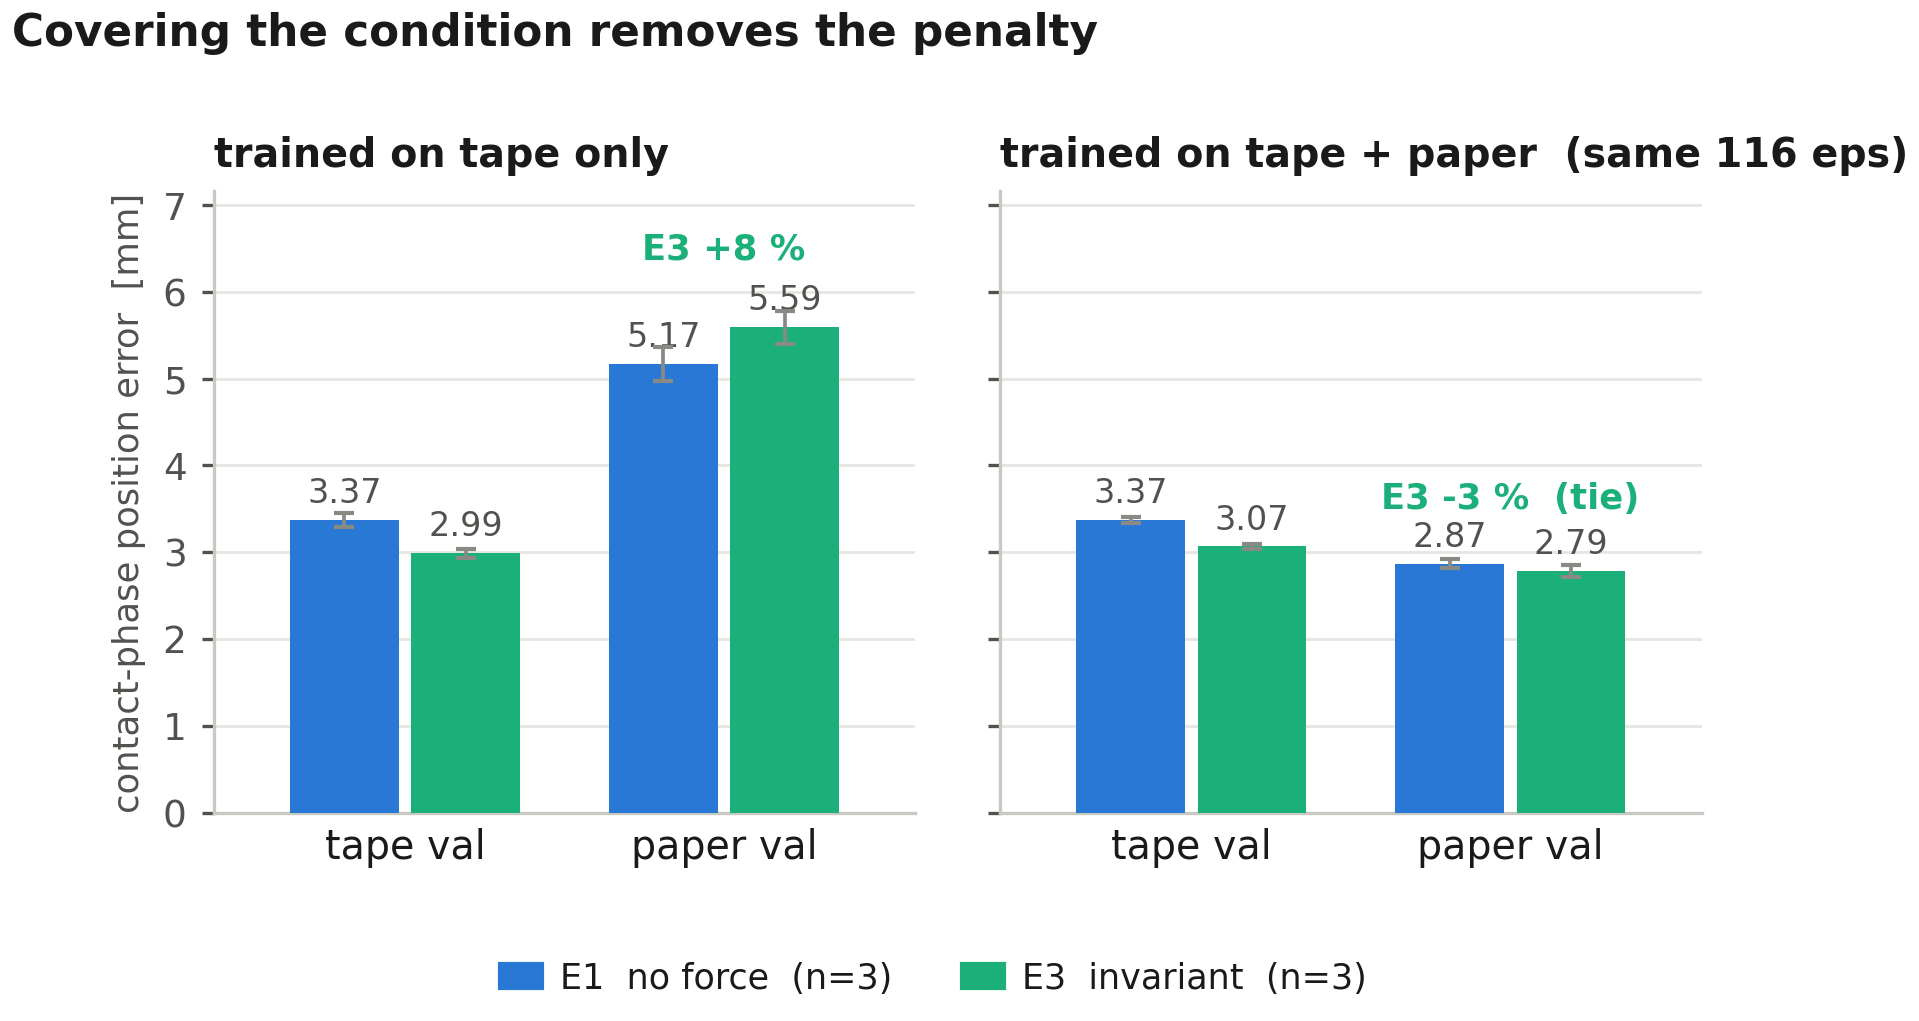
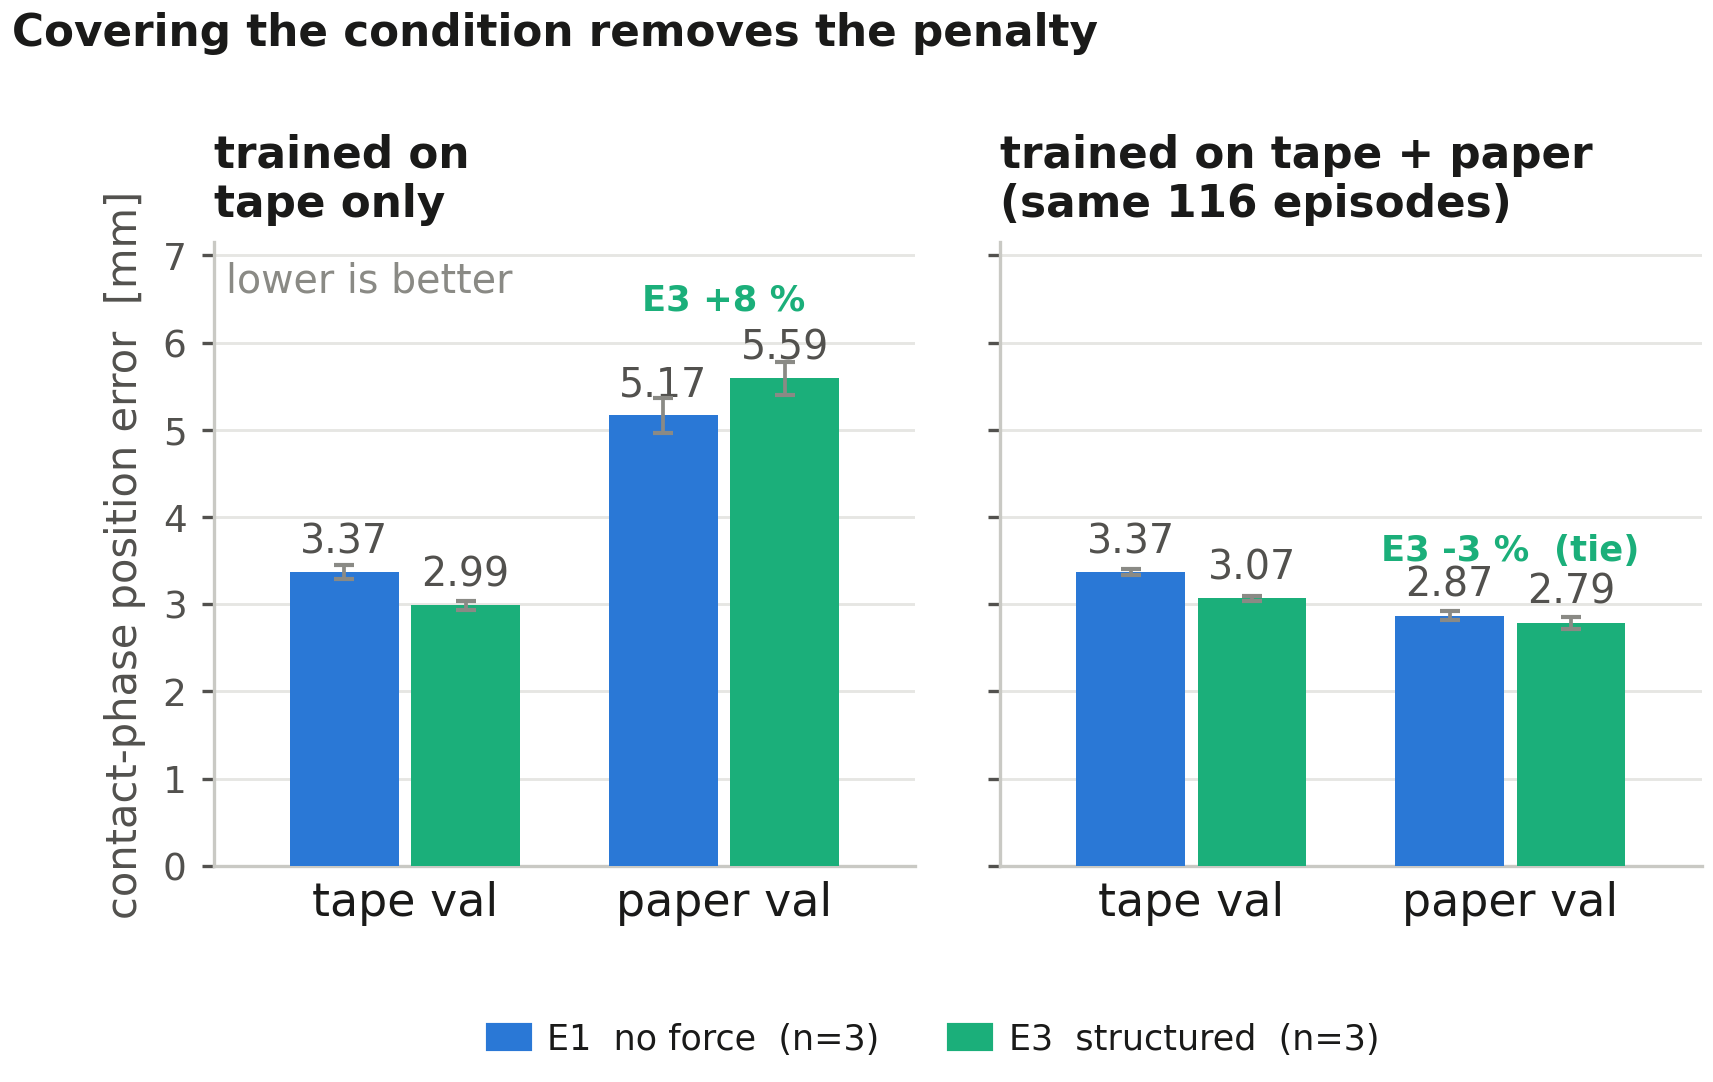
사이트: 요약 문구 정정(67 %, 중력 보상+|F|), 그림 배경 흰색, 하드웨어 타일 비율 통일, 결과 그림 최신판

diff --git a/index.html b/index.html
@@ -24,7 +24,7 @@ h1{font-size:clamp(22px,4.2vw,36px);line-height:1.25;margin:0 auto 16px;font-wei
 h2{font-size:22px;margin:0 0 14px;font-weight:700;text-align:center}
 p{margin:0 0 12px;color:var(--ink2)} .abstract p{max-width:66ch;margin:0 auto 12px;text-align:left}
 .claim{max-width:66ch;margin:16px auto 0;border-left:3px solid var(--e3);padding:10px 14px;background:var(--e3soft);border-radius:0 8px 8px 0;color:var(--ink);font-weight:500;text-align:left}
-figure{margin:0} img,video{max-width:100%;display:block;border-radius:12px;background:#000}
+figure{margin:0} img,video{max-width:100%;display:block;border-radius:12px} video{background:#000} img.fig{background:#fff;padding:10px;box-sizing:border-box}
 .pair{display:grid;grid-template-columns:1fr 1fr;gap:16px;max-width:760px;margin:0 auto}
 .pair video{width:100%;height:min(72vh,600px);object-fit:contain;background:#000}
 .pair figcaption{text-align:left}
@@ -39,7 +39,7 @@ figcaption{font-size:14px;color:var(--mute);margin-top:10px;line-height:1.55;tex
 .robot>img{width:270px;max-width:100%;border-radius:10px;display:block;flex:0 0 auto}
 .robot>div{flex:1 1 260px;min-width:0}
 .soon{aspect-ratio:16/10;border-radius:10px;background:var(--chip);display:grid;place-items:center;color:var(--mute);font-size:14px;text-align:center;padding:12px}
-.two{display:grid;grid-template-columns:1fr 1fr;gap:14px;align-items:start;max-width:720px;margin:0 auto}
+.two{display:grid;grid-template-columns:1fr 1fr;gap:14px;align-items:start;max-width:720px;margin:0 auto}.two img{width:100%;object-fit:cover}.two figure:nth-child(-n+2) img{aspect-ratio:4/5}.two figure:nth-child(n+3) img{aspect-ratio:5/4}
 .k{font-variant-numeric:tabular-nums;font-weight:600;color:var(--ink)}
 pre{background:var(--card);border:1px solid var(--rule);border-radius:12px;padding:14px 16px;font-size:13px;line-height:1.5;overflow-x:auto;color:var(--ink2);max-width:720px;margin:0 auto}
 footer{border-top:1px solid var(--rule);padding-top:18px;font-size:13.5px;color:var(--mute);text-align:center;line-height:1.7}
@@ -81,14 +81,14 @@ footer{border-top:1px solid var(--rule);padding-top:18px;font-size:13.5px;color:
 <section class="abstract">
   <h2>요약</h2>
   <p>Diffusion Policy는 영상과 손목 자세만으로 시연을 모방하지만, 경사면을 눌러 따라가는 접촉 과제의 결과를 지배하는 마찰과 법선력은 영상에 나타나지 않습니다. 표준 UMI 그리퍼에 6축 힘/토크 센서를 통합해 시연을 모으고, 그 힘을 정책 입력으로 <em>어떤 형태로</em> 넣어야 하는지를 데이터·모델·시드를 고정한 통제 비교(힘 없음 / 원시 렌치 / 물리 구조화, 시드 3개)로 측정했습니다. 학습한 표면과 마찰이 33 % 다른 표면에서 함께 평가하고, 두 표면을 섞어 학습한 경우도 비교했습니다.</p>
-  <div class="claim">힘 표현의 우열은 학습 데이터가 배치 조건을 덮는지에 따라 부호가 바뀝니다. 원시 렌치는 어느 조건에서도 이득이 없고(그러나 힘을 지우면 오차가 87 % 늘어 — 쓰이되 도움이 되지 않음), 물리적으로 구조화한 표현은 덮은 조건에서 9–11 % 이득, 덮지 못한 조건에서는 힘을 안 쓰는 것보다 나쁩니다. 이득은 중력 보상만으로 포화됩니다.</div>
+  <div class="claim">힘 표현의 우열은 학습 데이터가 배치 조건을 덮는지에 따라 부호가 바뀝니다. 원시 렌치는 S1에서 개선이 없고 S2에서는 오차가 5 % 늘었지만 힘을 지우면 오차가 67 % 늘어납니다 — 쓰이되 도움이 되지 않습니다. 물리적으로 구조화한 표현은 학습한 표면에서 9–11 % 이득, 처음 보는 표면에서는 힘을 안 쓰는 것보다 나쁘고, 그 표면을 학습에 넣으면 손해가 사라집니다. 이득에는 중력 보상과 힘 크기 |F| 둘 다 필요했고, 그 뒤로 채널을 더해도 늘지 않았습니다.</div>
 </section>
 
 <section>
   <h2>하드웨어와 실험 환경</h2>
   <div class="two">
     <figure><img src="media/rig.jpg" alt="F/T 센서를 통합한 손잡이형 UMI 그리퍼"><figcaption>제작한 수집 장치 — 아이폰, 6축 F/T, 모터. 로봇 플랜지에 그대로 올라갑니다.</figcaption></figure>
-    <figure><img src="media/tool.jpg" alt="그리퍼가 파지하는 3D 프린트 슬라이더 바"><figcaption>접촉 툴 — 그리퍼가 손잡이를 물고 위쪽 바를 경사면에 눌러 따라갑니다.</figcaption></figure>
+    <figure><img src="media/tool.jpg" style="object-position:center 35%" alt="그리퍼가 파지하는 3D 프린트 슬라이더 바"><figcaption>접촉 툴 — 그리퍼가 손잡이를 물고 위쪽 바를 경사면에 눌러 따라갑니다.</figcaption></figure>
     <figure><img src="media/board_wedge.jpg" alt="경사 받침 측면"><figcaption>경사 받침 측면 — 약 12°. 두 표면이 같은 받침을 씁니다.</figcaption></figure>
     <figure><img src="media/boards_two.jpg" alt="테이프 판과 종이 판"><figcaption>두 표면 — 절연테이프(왼쪽, 학습)와 종이(오른쪽, 미학습). 카메라에는 비슷하지만 마찰비가 0.31 → 0.21로 다릅니다.</figcaption></figure>
   </div>
@@ -96,7 +96,7 @@ footer{border-top:1px solid var(--rule);padding-top:18px;font-size:13.5px;color:
 
 <section>
   <h2>파이프라인</h2>
-  <figure><img src="media/fig11_pipeline.png" alt="시연 → 정렬·중력 보상 → 힘 표현 선택 → Diffusion Policy → 평가 → FR3 배포">
+  <figure><img class="fig" src="media/fig11_pipeline.png" alt="시연 → 정렬·중력 보상 → 힘 표현 선택 → Diffusion Policy → 평가 → FR3 배포">
   <figcaption>손에 든 시연이 정책이 되어 평가·배포되는 흐름. 세 정책은 <b>힘 표현 단계</b>만 다르고 나머지는 전부 같습니다.</figcaption></figure>
 </section>
 
@@ -135,7 +135,7 @@ footer{border-top:1px solid var(--rule);padding-top:18px;font-size:13.5px;color:
 
 <section>
   <h2>핵심 결과 한 장</h2>
-  <figure><img src="media/fig8_mixed.png" alt="단일 표면 학습과 혼합 학습에서 힘 없음(E1)과 구조화 표현(E3)의 접촉 오차">
+  <figure><img class="fig" src="media/fig8_mixed.png" alt="단일 표면 학습과 혼합 학습에서 힘 없음(E1)과 구조화 표현(E3)의 접촉 오차">
   <figcaption>접촉 구간 위치 오차 [mm], 시드 3개. 왼쪽: 테이프만으로 학습 — 구조화 표현은 테이프에서 <span class="k">−11 %</span>, 처음 보는 종이에서 <span class="k">+8 %</span>. 오른쪽: 같은 116 에피소드를 두 표면으로 나눠 학습 — 종이 손해가 사라지고 테이프 이득 <span class="k">−9 %</span>는 남습니다. 나머지 수치는 포스터에 있습니다.</figcaption></figure>
 </section>
 
